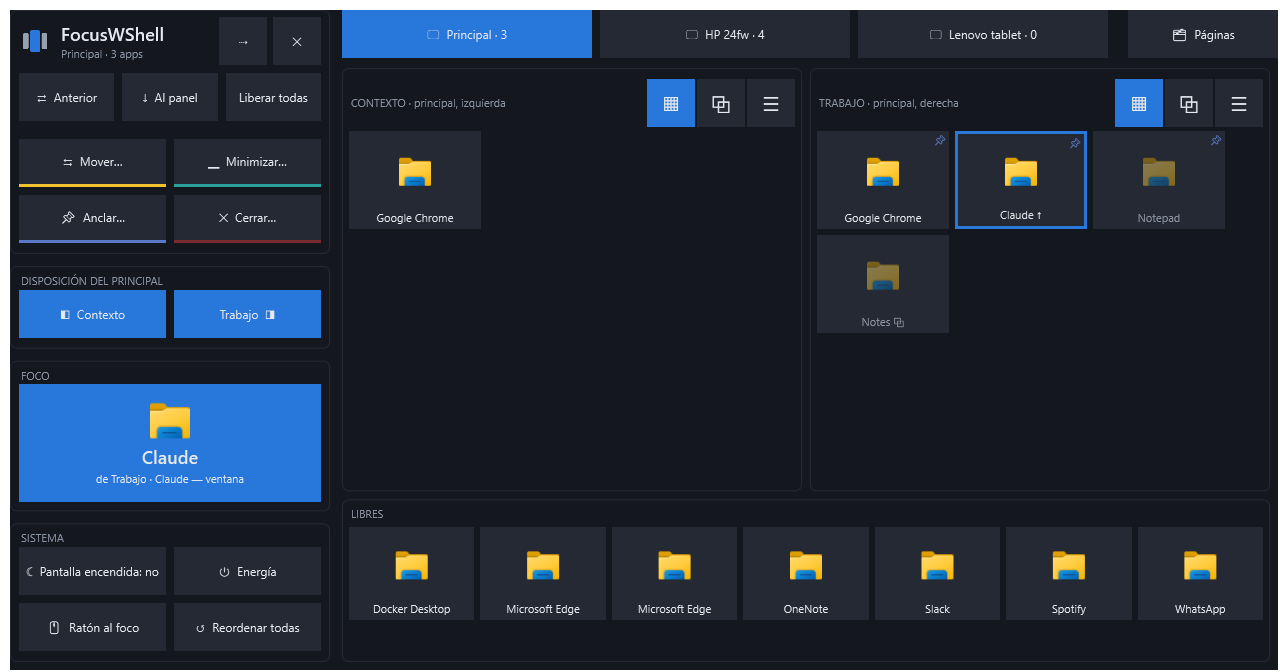
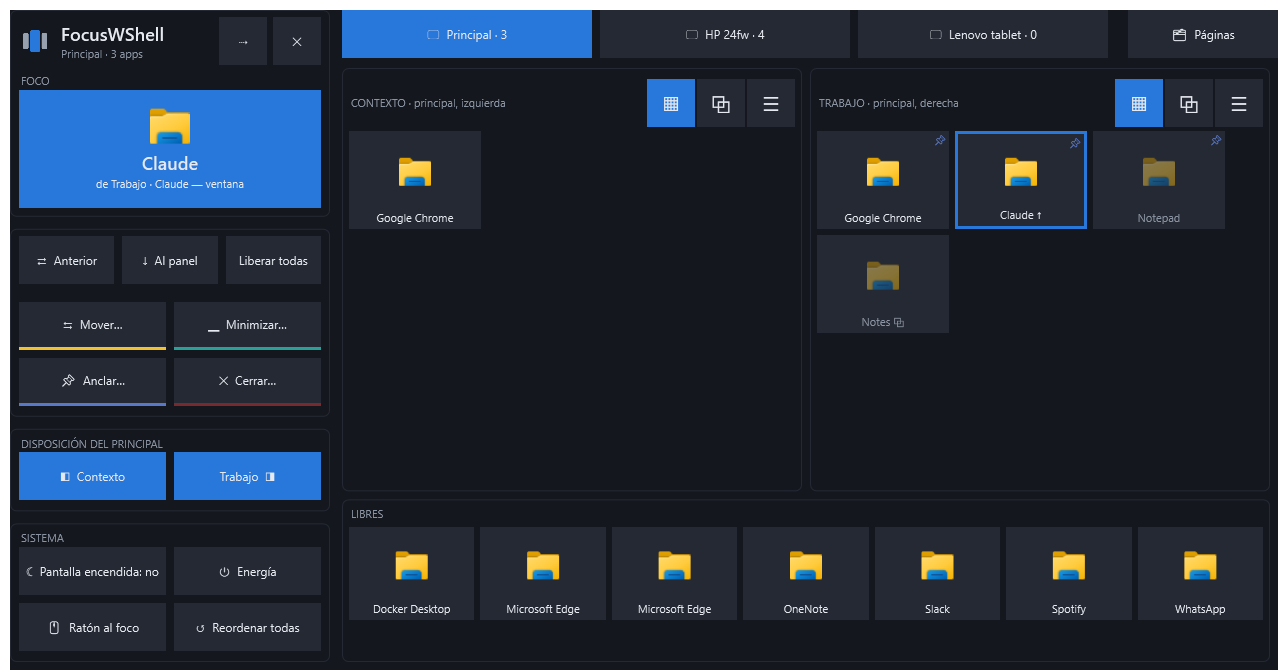
Deck: el foco arriba, bajo la cabecera y encima de los botones
En el deck ancho, el tile del foco sube debajo de FocusWShell y ocupa el espacio que sobra; los botones, la disposición y Sistema quedan abajo, más cerca de la mano en la tablet. Capturas del sitio, página del deck, ADR 0013 y CHANGELOG.

Changed region(s): [[0.0, 0.125, 0.25, 0.5312], [0.0, 0.5625, 0.25, 0.75]]

diff --git a/src/FocusWShell.App/DeckWindow.cs b/src/FocusWShell.App/DeckWindow.cs
@@ -212,8 +212,8 @@ public sealed class DeckWindow : Window
         _root.ColumnDefinitions.Add(new ColumnDefinition { Width = new GridLength(12) });
         _root.ColumnDefinitions.Add(new ColumnDefinition { Width = new GridLength(1, GridUnitType.Star) });
 
-        // Izquierda, en tres tarjetas separadas por más aire que sus botones entre sí:
-        //   Foco (la app y qué hacer con ella), Disposición (las columnas del principal) y, abajo, Sistema.
+        // Izquierda, en tarjetas separadas por más aire que sus botones entre sí: arriba FocusWShell y la app
+        // del foco (lo primero que se mira), debajo qué hacer con ella, la disposición y, abajo, Sistema.
         var left = new Grid();
         void Card(Border card, GridLength height)
         {
@@ -222,13 +222,17 @@ public sealed class DeckWindow : Window
             left.Children.Add(card);
         }
 
-        // Arriba FocusWShell; debajo las de acción inmediata (Anterior, Al panel, Liberar todas) y, con un hueco
-        // que separa los dos tipos, los cuatro modos en 2×2: los que acomodan a la izquierda (Mover, Anclar) y
-        // los que quitan de la vista a la derecha (Minimizar, Cerrar).
+        // El foco, con su lugar propio bajo la cabecera: ocupa el aire que sobra, y los botones quedan abajo,
+        // más cerca de la mano en la tablet.
+        Card(Group(null, [(DeckHeader(state), GridLength.Auto), (Label(Strings.Deck_SecFocus), GridLength.Auto), (FocusTile(state), new GridLength(1, GridUnitType.Star))]), new GridLength(1, GridUnitType.Star));
+
+        // Las de acción inmediata (Anterior, Al panel, Liberar todas) y, con un hueco que separa los dos tipos,
+        // los cuatro modos en 2×2: los que acomodan a la izquierda (Mover, Anclar) y los que quitan de la vista
+        // a la derecha (Minimizar, Cerrar).
         var actions = FocusActions(state, shortText: true);
         var modes = Buttons(2, [actions[3], actions[5], actions[4], actions[6]]);
         modes.Margin = new Thickness(0, 8, 0, 2);
-        Card(Group(null, [(DeckHeader(state), GridLength.Auto), (Buttons(3, actions.Take(3)), GridLength.Auto), (modes, GridLength.Auto)]), GridLength.Auto);
+        Card(Group(null, [(Buttons(3, actions.Take(3)), GridLength.Auto), (modes, GridLength.Auto)]), GridLength.Auto);
 
         // La disposición del principal: las columnas de paneles que se prenden y apagan, como un mapa del
         // monitor (ADR 0012, enmienda). El foco ocupa lo que dejan.
@@ -240,9 +244,6 @@ public sealed class DeckWindow : Window
         };
 
         Card(Group(null, layout), GridLength.Auto);
-
-        // El foco, con su lugar propio: ocupa el aire hasta Sistema.
-        Card(Group(Strings.Deck_SecFocus, [(FocusTile(state), new GridLength(1, GridUnitType.Star))]), new GridLength(1, GridUnitType.Star));
         var system = Group(_powerOpen ? Strings.Deck_SecPower : Strings.Deck_SecSystem, [(Buttons(2, SystemButtons()), GridLength.Auto)]);
         system.Margin = new Thickness(0, 0, 0, 8); // abajo, alineada con LIBRES
         Card(system, GridLength.Auto);

diff --git a/CHANGELOG.md b/CHANGELOG.md
@@ -9,7 +9,7 @@ Todos los cambios importantes de FocusWShell. Cada versión tiene sus notas en [
 - Manual: a picture of how it works, a step-by-step getting started from the main window, step-by-step guides, and screenshots of every section of the main window. / Manual: un dibujo de cómo funciona, primeros pasos paso a paso desde la ventana principal, guías paso a paso y capturas de cada sección de la ventana principal.
 - Fixed: in the dark theme, the list in Windows was white with white text. / Corregido: en el tema oscuro, la lista de Ventanas salía blanca con el texto blanco.
 - Apps that close to the tray (Codex, Discord, Teams…) show dimmed with ▴ in their panel, and tapping them opens the app again, which shows its window. Before, FocusWShell showed the hidden window itself, and some apps stayed frozen. When the app shows its window again, it goes back to its panel and to the focus. / Las apps que se cierran a la bandeja (Codex, Discord, Teams…) salen atenuadas con ▴ en su panel, y tocarlas abre la app otra vez, que muestra su ventana. Antes FocusWShell mostraba la ventana oculta por su cuenta, y algunas apps quedaban congeladas. Cuando la app vuelve a mostrar su ventana, regresa a su panel y al foco.
-- The deck gives the focus app its own place: on a whole tablet, a big tile above System; in its panel, a blue border. / El deck le da a la app del foco su lugar propio: en la tablet entera, un tile grande arriba de Sistema; en su panel, un borde azul.
+- The deck gives the focus app its own place: on a whole tablet, a big tile at the top, above the buttons; in its panel, a blue border. / El deck le da a la app del foco su lugar propio: en la tablet entera, un tile grande arriba, encima de los botones; en su panel, un borde azul.
 - New Minimize… mode in the deck (teal), and the four modes in a 2×2 grid. Free all moves up with Previous and To panel; Mouse to focus moves to System. / Nuevo modo Minimizar… en el deck (verde azulado), y los cuatro modos en una cuadrícula de 2×2. Liberar todas sube junto a Anterior y Al panel; Ratón al foco pasa a Sistema.
 - "Park" is now called "Minimize" everywhere. / «Estacionar» ahora se llama «Minimizar» en todos lados.
 - The main monitor is called "main" in English, and the Spanish buttons say "foco" instead of "Centro". / El monitor principal se llama «main» en inglés, y los botones en español dicen «foco» en lugar de «Centro».

diff --git a/docs/adr/0013-deck-superficie-de-control.md b/docs/adr/0013-deck-superficie-de-control.md
@@ -70,7 +70,7 @@ Puede vivir en un monitor táctil, sea una tablet que extiende el escritorio ([A
 
 ## Enmienda: el lugar del foco y el modo Minimizar (2026-11-13)
 
-- **El foco tiene su lugar propio.** En el deck ancho, la cabecera pasa a ser FocusWShell (logo, el monitor que se ve y cuántas apps tiene), y la app del foco es un tile grande arriba de *Sistema*: icono, nombre, de qué panel viene y el título de su ventana. En el deck angosto sigue arriba, en la cabecera. En los dos, se toca como una app: en un modo, el modo; si no, su menú. En «Mover», con otra app elegida, es destino: la lleva al foco. En su panel, la del foco ya no va pintada de azul: lleva un borde azul y la ↑, para que no haya dos cosas iguales.
+- **El foco tiene su lugar propio.** En el deck ancho, la cabecera pasa a ser FocusWShell (logo, el monitor que se ve y cuántas apps tiene), y debajo, la app del foco en un tile grande que ocupa el espacio que sobra, encima de los botones (lo primero que se mira; los botones quedan abajo, más cerca de la mano): icono, nombre, de qué panel viene y el título de su ventana. En el deck angosto sigue arriba, en la cabecera. En los dos, se toca como una app: en un modo, el modo; si no, su menú. En «Mover», con otra app elegida, es destino: la lleva al foco. En su panel, la del foco ya no va pintada de azul: lleva un borde azul y la ↑, para que no haya dos cosas iguales.
 - **Botones.** Arriba las de acción inmediata: Anterior, Al panel y Liberar todas (que pide un segundo toque). Debajo los cuatro modos en 2×2: Mover y Anclar, que acomodan, a la izquierda; Minimizar y Cerrar, que quitan de la vista, a la derecha. En el deck angosto, dos filas: tres acciones y cuatro modos. Ratón al foco pasa a *Sistema*, junto a Pantalla encendida, Energía y Reordenar todas.
 - **Modo Minimizar…** (verde azulado): como Cerrar, se apaga después de un toque (encendido como Anclar se sentía pegado: cada clic minimizaba otra app). Alterna: minimiza una app en su panel (`Park`) o la trae de vuelta (`Restore`). Sólo para apps en un panel; las libres no tienen dónde quedarse.
 - **«Estacionar» se llama «Minimizar»** en la interfaz y en el sitio. En el código y en el dominio sigue siendo `Park` ([ADR 0006](0006-ocultar-con-minimizar.md)).

diff --git a/site/es/deck.md b/site/es/deck.md
@@ -18,7 +18,7 @@ El deck es la superficie de control de FocusWShell: todo lo que puedes hacer, co
 
 ## Foco
 
-La app del foco tiene su lugar propio. En la tablet entera es un tile grande arriba de **Sistema**, con su icono, su nombre, el panel del que viene y el título de su ventana. En el deck angosto está arriba. Tócala para abrir su menú; en un modo, funciona como cualquier otra app.
+La app del foco tiene su lugar propio. En la tablet entera es un tile grande arriba, bajo el nombre de FocusWShell y encima de los botones, con su icono, su nombre, el panel del que viene y el título de su ventana. En el deck angosto está arriba. Tócala para abrir su menú; en un modo, funciona como cualquier otra app.
 
 En su panel, la app del foco lleva un borde azul y **↑**.
 

diff --git a/site/deck.md b/site/deck.md
@@ -18,7 +18,7 @@ Open or hide it with <kbd>Ctrl</kbd>+<kbd>Alt</kbd>+<kbd>Shift</kbd>+<kbd>D</kbd
 
 ## Focus
 
-The app in focus has its own place. On a whole tablet it is a big tile above **System**, with its icon, its name, the panel it comes from and its window title. In the narrower deck it is at the top. Tap it to open its menu; in a mode, it works like any other app.
+The app in focus has its own place. On a whole tablet it is a big tile at the top, under the FocusWShell name and above the buttons, with its icon, its name, the panel it comes from and its window title. In the narrower deck it is at the top. Tap it to open its menu; in a mode, it works like any other app.
 
 In its panel, the focus app has a blue border and **↑**.
 
